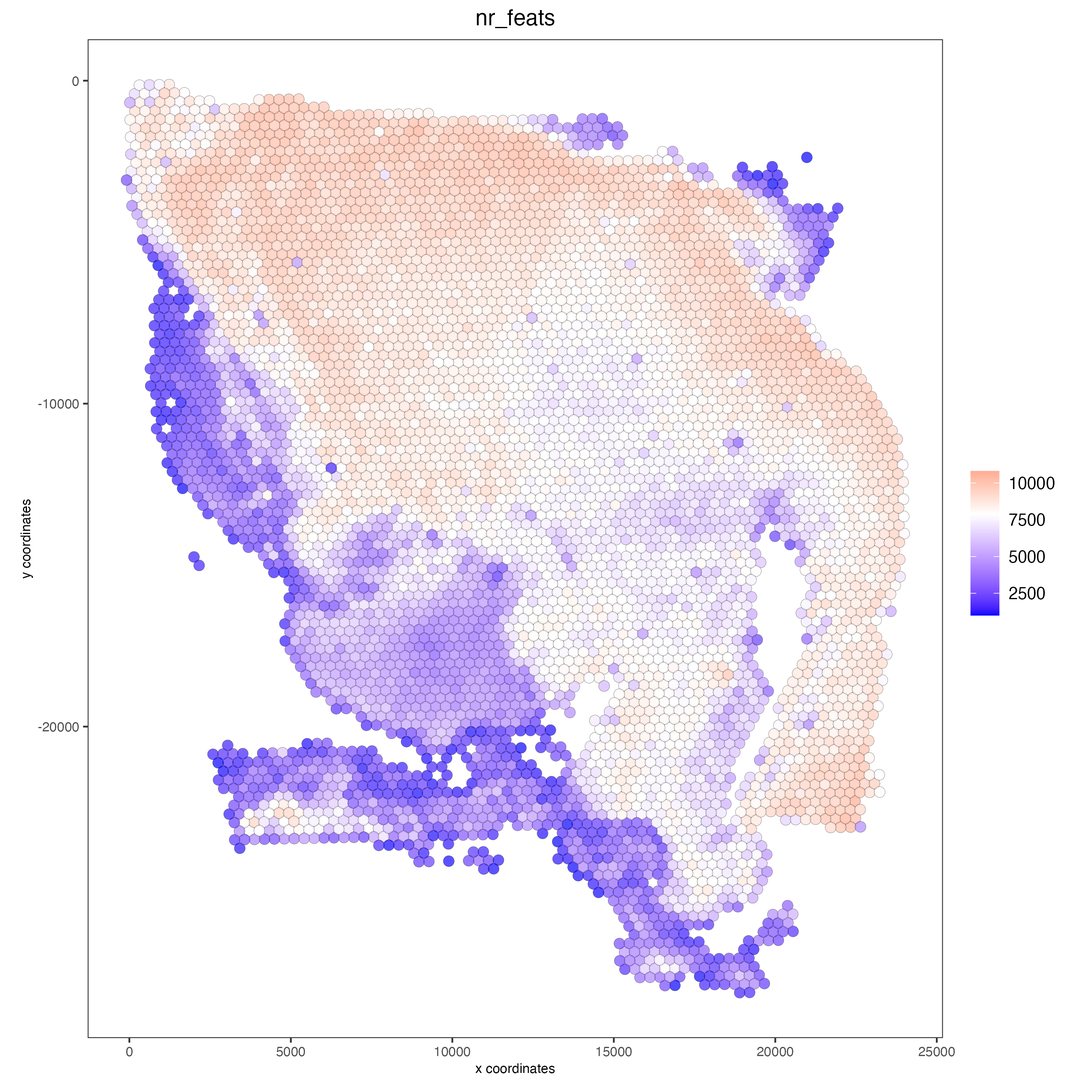
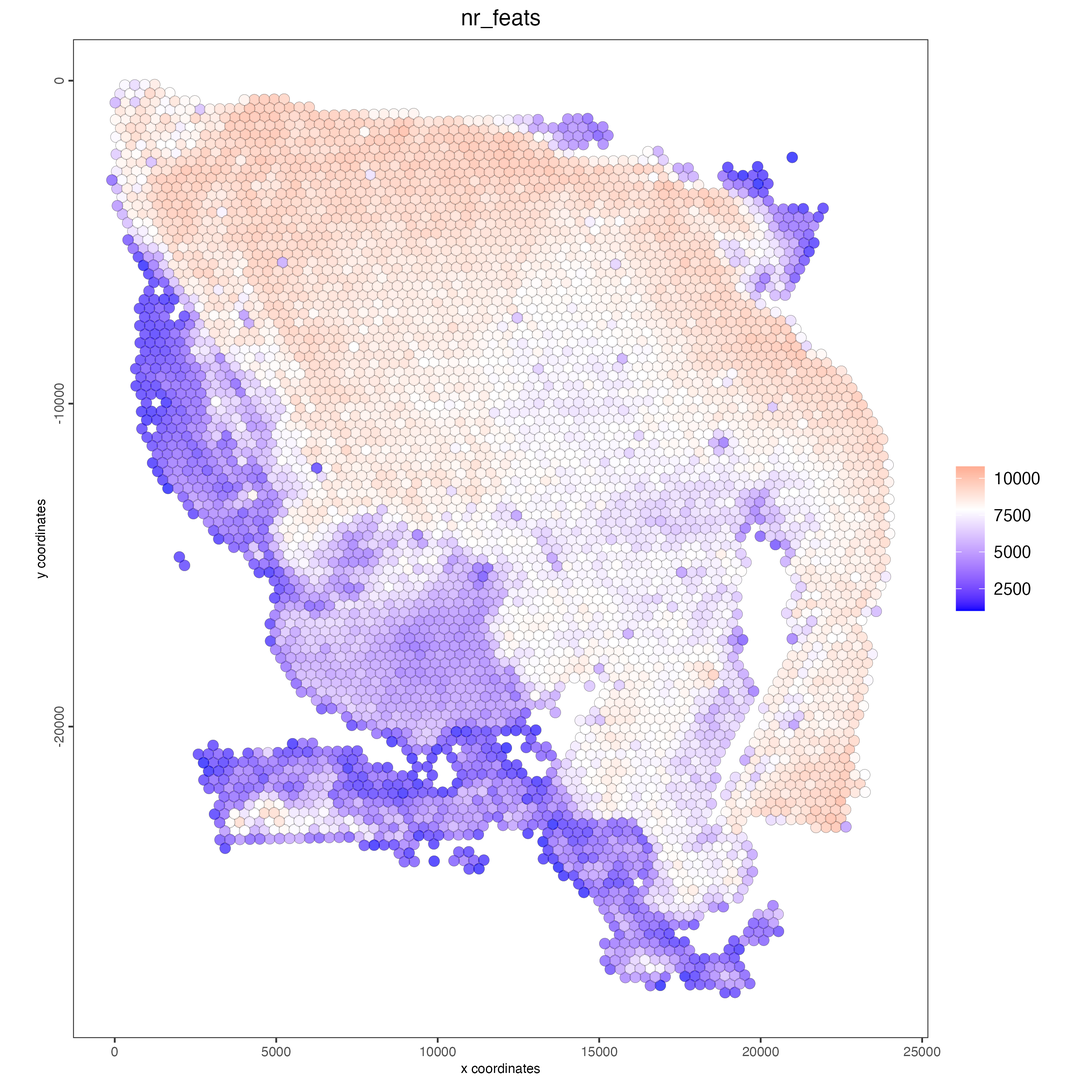
Deploying to gh-pages from @ drieslab/Giotto_website@1088780006481d3b1cf598054b1b624ef5b925c8 🚀

diff --git a/articles/visium_cytassist_human_glioblastoma.html b/articles/visium_cytassist_human_glioblastoma.html
@@ -529,7 +529,7 @@
 <span><span class="co">## Visualize aligned tissue</span></span>
 <span><span class="fu"><a href="https://drieslab.github.io/GiottoVisuals/reference/spatPlot.html" class="external-link">spatPlot2D</a></span><span class="op">(</span>gobject <span class="op">=</span> <span class="va">visium</span>,</span>
 <span>           point_alpha <span class="op">=</span> <span class="fl">0.7</span><span class="op">)</span></span></code></pre></div>
-<p><img src="images/visium_cytassist_human_glioblastoma/0-spatPlot2D.png"></p>
+<p><img src="images/visium_cytassist_human_glioblastoma/0-spatPlot2D.png" width="60%"></p>
 <div class="sourceCode" id="cb6"><pre class="downlit sourceCode r">
 <code class="sourceCode R"><span><span class="co"># Filtering, normalization, and statistics</span></span>
 <span></span>
@@ -552,7 +552,7 @@
 <span>           point_alpha <span class="op">=</span> <span class="fl">0.7</span>,</span>
 <span>           cell_color <span class="op">=</span> <span class="st">"nr_feats"</span>,</span>
 <span>           color_as_factor <span class="op">=</span> <span class="cn">FALSE</span><span class="op">)</span></span></code></pre></div>
-<p><img src="images/visium_cytassist_human_glioblastoma/1-spatPlot2D.png"></p>
+<p><img src="images/visium_cytassist_human_glioblastoma/1-spatPlot2D.png" width="60%"></p>
 <div class="sourceCode" id="cb7"><pre class="downlit sourceCode r">
 <code class="sourceCode R"><span><span class="co">## Protein feature </span></span>
 <span><span class="va">visium</span> <span class="op">&lt;-</span> <span class="fu"><a href="../reference/filterGiotto.html">filterGiotto</a></span><span class="op">(</span>gobject <span class="op">=</span> <span class="va">visium</span>, </span>
@@ -581,7 +581,7 @@
 <span>           point_alpha <span class="op">=</span> <span class="fl">0.7</span>, </span>
 <span>           cell_color <span class="op">=</span> <span class="st">"nr_feats"</span>, </span>
 <span>           color_as_factor <span class="op">=</span> <span class="cn">FALSE</span><span class="op">)</span></span></code></pre></div>
-<p><img src="images/visium_cytassist_human_glioblastoma/2-spatPlot2D.png"></p>
+<p><img src="images/visium_cytassist_human_glioblastoma/2-spatPlot2D.png" width="60%"></p>
 </div>
 <div class="section level2" number="5">
 <h2 number="5" id="dimension-reduction">
@@ -590,7 +590,6 @@
 <div class="sourceCode" id="cb8"><pre class="downlit sourceCode r">
 <code class="sourceCode R"><span><span class="co"># Identify highly variable features (HVF)</span></span>
 <span><span class="va">visium</span> <span class="op">&lt;-</span> <span class="fu"><a href="../reference/calculateHVF.html">calculateHVF</a></span><span class="op">(</span>gobject <span class="op">=</span> <span class="va">visium</span><span class="op">)</span></span></code></pre></div>
-<p><img src="images/visium_cytassist_human_glioblastoma/3-HVFplot.png"></p>
 <div class="sourceCode" id="cb9"><pre class="downlit sourceCode r">
 <code class="sourceCode R"><span><span class="co"># PCA</span></span>
 <span></span>
@@ -598,11 +597,11 @@
 <span><span class="va">visium</span> <span class="op">&lt;-</span> <span class="fu"><a href="../reference/runPCA.html">runPCA</a></span><span class="op">(</span>gobject <span class="op">=</span> <span class="va">visium</span><span class="op">)</span></span>
 <span></span>
 <span><span class="fu"><a href="../reference/screePlot.html">screePlot</a></span><span class="op">(</span><span class="va">visium</span>, ncp <span class="op">=</span> <span class="fl">30</span><span class="op">)</span></span></code></pre></div>
-<p><img src="images/visium_cytassist_human_glioblastoma/4-screePlot.png"></p>
+<p><img src="images/visium_cytassist_human_glioblastoma/3-screePlot.png" width="60%"></p>
 <div class="sourceCode" id="cb10"><pre class="downlit sourceCode r">
 <code class="sourceCode R"><span><span class="co">### Visualize RNA PCA</span></span>
 <span><span class="fu"><a href="https://drieslab.github.io/GiottoVisuals/reference/plotPCA.html" class="external-link">plotPCA</a></span><span class="op">(</span>gobject <span class="op">=</span> <span class="va">visium</span><span class="op">)</span></span></code></pre></div>
-<p><img src="images/visium_cytassist_human_glioblastoma/5-PCA.png"></p>
+<p><img src="images/visium_cytassist_human_glioblastoma/4-PCA.png" width="60%"></p>
 <div class="sourceCode" id="cb11"><pre class="downlit sourceCode r">
 <code class="sourceCode R"><span><span class="co">## Protein</span></span>
 <span><span class="va">visium</span> <span class="op">&lt;-</span> <span class="fu"><a href="../reference/runPCA.html">runPCA</a></span><span class="op">(</span>gobject <span class="op">=</span> <span class="va">visium</span>,</span>
@@ -613,13 +612,13 @@
 <span>          spat_unit <span class="op">=</span> <span class="st">"cell"</span>,</span>
 <span>          feat_type <span class="op">=</span> <span class="st">"protein"</span>,</span>
 <span>          ncp <span class="op">=</span> <span class="fl">30</span><span class="op">)</span></span></code></pre></div>
-<p><img src="images/visium_cytassist_human_glioblastoma/6-screePlot.png"></p>
+<p><img src="images/visium_cytassist_human_glioblastoma/5-screePlot.png" width="60%"></p>
 <div class="sourceCode" id="cb12"><pre class="downlit sourceCode r">
 <code class="sourceCode R"><span><span class="co">### Visualize Protein PCA</span></span>
 <span><span class="fu"><a href="https://drieslab.github.io/GiottoVisuals/reference/plotPCA.html" class="external-link">plotPCA</a></span><span class="op">(</span>gobject <span class="op">=</span> <span class="va">visium</span>,</span>
 <span>        spat_unit <span class="op">=</span> <span class="st">"cell"</span>,</span>
 <span>        feat_type <span class="op">=</span> <span class="st">"protein"</span><span class="op">)</span></span></code></pre></div>
-<p><img src="images/visium_cytassist_human_glioblastoma/7-PCA.png"></p>
+<p><img src="images/visium_cytassist_human_glioblastoma/6-PCA.png" width="60%"></p>
 </div>
 <div class="section level2" number="6">
 <h2 number="6" id="clustering">
@@ -665,7 +664,7 @@
 <span>         cell_color <span class="op">=</span> <span class="st">"leiden_clus"</span>,</span>
 <span>         show_NN_network <span class="op">=</span> <span class="cn">TRUE</span>,</span>
 <span>         point_size <span class="op">=</span> <span class="fl">2</span><span class="op">)</span></span></code></pre></div>
-<p><img src="images/visium_cytassist_human_glioblastoma/8-UMAP.png"></p>
+<p><img src="images/visium_cytassist_human_glioblastoma/7-UMAP.png" width="60%"></p>
 <div class="sourceCode" id="cb14"><pre class="downlit sourceCode r">
 <code class="sourceCode R"><span><span class="co">## Protein feature </span></span>
 <span><span class="va">visium</span> <span class="op">&lt;-</span> <span class="fu"><a href="../reference/runUMAP.html">runUMAP</a></span><span class="op">(</span><span class="va">visium</span>,</span>
@@ -679,7 +678,7 @@
 <span>         cell_color <span class="op">=</span> <span class="st">"leiden_clus"</span>, </span>
 <span>         show_NN_network <span class="op">=</span> <span class="cn">TRUE</span>, </span>
 <span>         point_size <span class="op">=</span> <span class="fl">2</span><span class="op">)</span></span></code></pre></div>
-<p><img src="images/visium_cytassist_human_glioblastoma/9-UMAP.png"></p>
+<p><img src="images/visium_cytassist_human_glioblastoma/8-UMAP.png" width="60%"></p>
 <div class="sourceCode" id="cb15"><pre class="downlit sourceCode r">
 <code class="sourceCode R"><span><span class="co"># Visualize spatial plot</span></span>
 <span></span>
@@ -688,7 +687,7 @@
 <span>           show_image <span class="op">=</span> <span class="cn">TRUE</span>,</span>
 <span>           cell_color <span class="op">=</span> <span class="st">"leiden_clus"</span>,</span>
 <span>           point_size <span class="op">=</span> <span class="fl">2</span><span class="op">)</span></span></code></pre></div>
-<p><img src="images/visium_cytassist_human_glioblastoma/10-spatPlot2D.png"></p>
+<p><img src="images/visium_cytassist_human_glioblastoma/9-spatPlot2D.png" width="60%"></p>
 <div class="sourceCode" id="cb16"><pre class="downlit sourceCode r">
 <code class="sourceCode R"><span><span class="co">## Protein feature</span></span>
 <span><span class="fu"><a href="https://drieslab.github.io/GiottoVisuals/reference/spatPlot.html" class="external-link">spatPlot2D</a></span><span class="op">(</span>gobject <span class="op">=</span> <span class="va">visium</span>,</span>
@@ -697,7 +696,7 @@
 <span>           show_image <span class="op">=</span> <span class="cn">TRUE</span>,</span>
 <span>           cell_color <span class="op">=</span> <span class="st">"leiden_clus"</span>,</span>
 <span>           point_size <span class="op">=</span> <span class="fl">2</span><span class="op">)</span></span></code></pre></div>
-<p><img src="images/visium_cytassist_human_glioblastoma/11-spatPlot2D.png"></p>
+<p><img src="images/visium_cytassist_human_glioblastoma/10-spatPlot2D.png" width="60%"></p>
 </div>
 <div class="section level2" number="7">
 <h2 number="7" id="multi-omics-integration">
@@ -720,7 +719,6 @@
 <span>                               type <span class="op">=</span> <span class="st">"kNN"</span>,</span>
 <span>                               dimensions_to_use <span class="op">=</span> <span class="fl">1</span><span class="op">:</span><span class="fl">10</span>,</span>
 <span>                               k <span class="op">=</span> <span class="fl">20</span><span class="op">)</span></span>
-<span></span>
 <span></span>
 <span><span class="co"># Run WNN</span></span>
 <span><span class="va">visium</span> <span class="op">&lt;-</span> <span class="fu"><a href="../reference/runWNN.html">runWNN</a></span><span class="op">(</span><span class="va">visium</span>,</span>
@@ -763,7 +761,7 @@
 <span>         title <span class="op">=</span> <span class="st">"Integrated UMAP using Integrated Leiden clusters"</span>,</span>
 <span>         axis_title <span class="op">=</span> <span class="fl">12</span>,</span>
 <span>         axis_text <span class="op">=</span> <span class="fl">10</span> <span class="op">)</span></span></code></pre></div>
-<p><img src="images/visium_cytassist_human_glioblastoma/12-UMAP.png"></p>
+<p><img src="images/visium_cytassist_human_glioblastoma/11-UMAP.png" width="60%"></p>
 <div class="sourceCode" id="cb18"><pre class="downlit sourceCode r">
 <code class="sourceCode R"><span><span class="co"># Visualize spatial plot with integrated clusters</span></span>
 <span><span class="fu"><a href="https://drieslab.github.io/GiottoVisuals/reference/spatPlot.html" class="external-link">spatPlot2D</a></span><span class="op">(</span><span class="va">visium</span>,</span>
@@ -773,39 +771,73 @@
 <span>           point_size <span class="op">=</span> <span class="fl">2</span>,</span>
 <span>           show_image <span class="op">=</span> <span class="cn">FALSE</span>,</span>
 <span>           title <span class="op">=</span> <span class="st">"Integrated Leiden clustering"</span><span class="op">)</span></span></code></pre></div>
-<p><img src="images/visium_cytassist_human_glioblastoma/13-spatPlot2D.png"></p>
+<p><img src="images/visium_cytassist_human_glioblastoma/12-spatPlot2D.png" width="60%"></p>
 </div>
 <div class="section level2" number="8">
 <h2 number="8" id="session-info">
 <span class="header-section-number">8</span> Session Info<a class="anchor" aria-label="anchor" href="#session-info"></a>
 </h2>
-<div class="sourceCode" id="cb19"><pre class="sourceCode r"><code class="sourceCode r"><span id="cb19-1"><a href="#cb19-1" aria-hidden="true"></a><span class="kw">sessionInfo</span>()</span>
-<span id="cb19-2"><a href="#cb19-2" aria-hidden="true"></a></span>
-<span id="cb19-3"><a href="#cb19-3" aria-hidden="true"></a>R version <span class="dv">4</span>.<span class="fl">3.2</span> (<span class="dv">2023-10-31</span>)</span>
-<span id="cb19-4"><a href="#cb19-4" aria-hidden="true"></a>Platform<span class="op">:</span><span class="st"> </span>aarch64<span class="op">-</span>apple<span class="op">-</span><span class="kw">darwin20</span> (<span class="dv">64</span><span class="op">-</span>bit)</span>
-<span id="cb19-5"><a href="#cb19-5" aria-hidden="true"></a>Running under<span class="op">:</span><span class="st"> </span>macOS Sonoma <span class="dv">14</span>.<span class="fl">1.2</span></span>
-<span id="cb19-6"><a href="#cb19-6" aria-hidden="true"></a></span>
-<span id="cb19-7"><a href="#cb19-7" aria-hidden="true"></a>Matrix products<span class="op">:</span><span class="st"> </span>default</span>
-<span id="cb19-8"><a href="#cb19-8" aria-hidden="true"></a>BLAS<span class="op">:</span><span class="st">   </span><span class="er">/</span>System<span class="op">/</span>Library<span class="op">/</span>Frameworks<span class="op">/</span>Accelerate.framework<span class="op">/</span>Versions<span class="op">/</span>A<span class="op">/</span>Frameworks<span class="op">/</span>vecLib.framework<span class="op">/</span>Versions<span class="op">/</span>A<span class="op">/</span>libBLAS.dylib </span>
-<span id="cb19-9"><a href="#cb19-9" aria-hidden="true"></a>LAPACK<span class="op">:</span><span class="st"> </span><span class="er">/</span>Library<span class="op">/</span>Frameworks<span class="op">/</span>R.framework<span class="op">/</span>Versions<span class="op">/</span><span class="fl">4.3</span><span class="op">-</span>arm64<span class="op">/</span>Resources<span class="op">/</span>lib<span class="op">/</span>libRlapack.dylib;  LAPACK version <span class="dv">3</span>.<span class="fl">11.0</span></span>
-<span id="cb19-10"><a href="#cb19-10" aria-hidden="true"></a></span>
-<span id="cb19-11"><a href="#cb19-11" aria-hidden="true"></a>locale<span class="op">:</span></span>
-<span id="cb19-12"><a href="#cb19-12" aria-hidden="true"></a>[<span class="dv">1</span>] en_US.UTF<span class="dv">-8</span><span class="op">/</span>en_US.UTF<span class="dv">-8</span><span class="op">/</span>en_US.UTF<span class="dv">-8</span><span class="op">/</span>C<span class="op">/</span>en_US.UTF<span class="dv">-8</span><span class="op">/</span>en_US.UTF<span class="dv">-8</span></span>
-<span id="cb19-13"><a href="#cb19-13" aria-hidden="true"></a></span>
-<span id="cb19-14"><a href="#cb19-14" aria-hidden="true"></a>time zone<span class="op">:</span><span class="st"> </span>America<span class="op">/</span>New_York</span>
-<span id="cb19-15"><a href="#cb19-15" aria-hidden="true"></a>tzcode source<span class="op">:</span><span class="st"> </span>internal</span>
-<span id="cb19-16"><a href="#cb19-16" aria-hidden="true"></a></span>
-<span id="cb19-17"><a href="#cb19-17" aria-hidden="true"></a>attached base packages<span class="op">:</span></span>
-<span id="cb19-18"><a href="#cb19-18" aria-hidden="true"></a>[<span class="dv">1</span>] stats     graphics  grDevices utils     datasets  methods   base     </span>
-<span id="cb19-19"><a href="#cb19-19" aria-hidden="true"></a></span>
-<span id="cb19-20"><a href="#cb19-20" aria-hidden="true"></a>loaded via a <span class="kw">namespace</span> (and not attached)<span class="op">:</span></span>
-<span id="cb19-21"><a href="#cb19-21" aria-hidden="true"></a><span class="st"> </span>[<span class="dv">1</span>] vctrs_<span class="dv">0</span>.<span class="fl">6.5</span>       cli_<span class="dv">3</span>.<span class="fl">6.2</span>         knitr_<span class="fl">1.45</span>        rlang_<span class="dv">1</span>.<span class="fl">1.3</span>       xfun_<span class="fl">0.41</span>         stringi_<span class="dv">1</span>.<span class="fl">8.3</span>    </span>
-<span id="cb19-22"><a href="#cb19-22" aria-hidden="true"></a> [<span class="dv">7</span>] purrr_<span class="dv">1</span>.<span class="fl">0.2</span>       pkgload_<span class="dv">1</span>.<span class="fl">3.4</span>     promises_<span class="dv">1</span>.<span class="fl">2.1</span>    shiny_<span class="dv">1</span>.<span class="fl">8.0</span>       xtable_<span class="fl">1.8</span><span class="dv">-4</span>      glue_<span class="dv">1</span>.<span class="fl">7.0</span>       </span>
-<span id="cb19-23"><a href="#cb19-23" aria-hidden="true"></a>[<span class="dv">13</span>] htmltools_<span class="dv">0</span>.<span class="fl">5.7</span>   httpuv_<span class="dv">1</span>.<span class="fl">6.13</span>     pkgbuild_<span class="dv">1</span>.<span class="fl">4.3</span>    rmarkdown_<span class="fl">2.25</span>    evaluate_<span class="fl">0.23</span>     ellipsis_<span class="dv">0</span>.<span class="fl">3.2</span>   </span>
-<span id="cb19-24"><a href="#cb19-24" aria-hidden="true"></a>[<span class="dv">19</span>] fastmap_<span class="dv">1</span>.<span class="fl">1.1</span>     yaml_<span class="dv">2</span>.<span class="fl">3.8</span>        lifecycle_<span class="dv">1</span>.<span class="fl">0.4</span>   memoise_<span class="dv">2</span>.<span class="fl">0.1</span>     stringr_<span class="dv">1</span>.<span class="fl">5.1</span>     compiler_<span class="dv">4</span>.<span class="fl">3.2</span>   </span>
-<span id="cb19-25"><a href="#cb19-25" aria-hidden="true"></a>[<span class="dv">25</span>] miniUI_<span class="dv">0</span>.<span class="dv">1</span>.<span class="fl">1.1</span>    sessioninfo_<span class="dv">1</span>.<span class="fl">2.2</span> fs_<span class="dv">1</span>.<span class="fl">6.3</span>          htmlwidgets_<span class="dv">1</span>.<span class="fl">6.4</span> Rcpp_<span class="dv">1</span>.<span class="fl">0.12</span>       urlchecker_<span class="dv">1</span>.<span class="fl">0.1</span> </span>
-<span id="cb19-26"><a href="#cb19-26" aria-hidden="true"></a>[<span class="dv">31</span>] rstudioapi_<span class="dv">0</span>.<span class="fl">15.0</span> later_<span class="dv">1</span>.<span class="fl">3.2</span>       digest_<span class="dv">0</span>.<span class="fl">6.34</span>     R6_<span class="dv">2</span>.<span class="fl">5.1</span>          usethis_<span class="dv">2</span>.<span class="fl">2.2</span>     magrittr_<span class="dv">2</span>.<span class="fl">0.3</span>   </span>
-<span id="cb19-27"><a href="#cb19-27" aria-hidden="true"></a>[<span class="dv">37</span>] tools_<span class="dv">4</span>.<span class="fl">3.2</span>       mime_<span class="fl">0.12</span>         devtools_<span class="dv">2</span>.<span class="fl">4.5</span>    profvis_<span class="dv">0</span>.<span class="fl">3.8</span>     remotes_<span class="dv">2</span>.<span class="dv">4</span>.<span class="fl">2.1</span>   cachem_<span class="dv">1</span>.<span class="fl">0.8</span>    </span></code></pre></div>
+<div class="sourceCode" id="cb19"><pre class="downlit sourceCode r">
+<code class="sourceCode R"><span><span class="fu"><a href="https://rdrr.io/r/utils/sessionInfo.html" class="external-link">sessionInfo</a></span><span class="op">(</span><span class="op">)</span></span></code></pre></div>
+<div class="sourceCode" id="cb20"><pre class="sourceCode r"><code class="sourceCode r"><span id="cb20-1"><a href="#cb20-1" aria-hidden="true"></a>R version <span class="dv">4</span>.<span class="fl">4.0</span> (<span class="dv">2024-04-24</span>)</span>
+<span id="cb20-2"><a href="#cb20-2" aria-hidden="true"></a>Platform<span class="op">:</span><span class="st"> </span>x86_<span class="dv">64</span><span class="op">-</span>apple<span class="op">-</span>darwin20</span>
+<span id="cb20-3"><a href="#cb20-3" aria-hidden="true"></a>Running under<span class="op">:</span><span class="st"> </span>macOS Sonoma <span class="fl">14.5</span></span>
+<span id="cb20-4"><a href="#cb20-4" aria-hidden="true"></a></span>
+<span id="cb20-5"><a href="#cb20-5" aria-hidden="true"></a>Matrix products<span class="op">:</span><span class="st"> </span>default</span>
+<span id="cb20-6"><a href="#cb20-6" aria-hidden="true"></a>BLAS<span class="op">:</span><span class="st">   </span><span class="er">/</span>System<span class="op">/</span>Library<span class="op">/</span>Frameworks<span class="op">/</span>Accelerate.framework<span class="op">/</span>Versions<span class="op">/</span>A<span class="op">/</span>Frameworks<span class="op">/</span>vecLib.framework<span class="op">/</span>Versions<span class="op">/</span>A<span class="op">/</span>libBLAS.dylib </span>
+<span id="cb20-7"><a href="#cb20-7" aria-hidden="true"></a>LAPACK<span class="op">:</span><span class="st"> </span><span class="er">/</span>Library<span class="op">/</span>Frameworks<span class="op">/</span>R.framework<span class="op">/</span>Versions<span class="op">/</span><span class="fl">4.4</span><span class="op">-</span>x86_<span class="dv">64</span><span class="op">/</span>Resources<span class="op">/</span>lib<span class="op">/</span>libRlapack.dylib;  LAPACK version <span class="dv">3</span>.<span class="fl">12.0</span></span>
+<span id="cb20-8"><a href="#cb20-8" aria-hidden="true"></a></span>
+<span id="cb20-9"><a href="#cb20-9" aria-hidden="true"></a>locale<span class="op">:</span></span>
+<span id="cb20-10"><a href="#cb20-10" aria-hidden="true"></a>[<span class="dv">1</span>] en_US.UTF<span class="dv">-8</span><span class="op">/</span>en_US.UTF<span class="dv">-8</span><span class="op">/</span>en_US.UTF<span class="dv">-8</span><span class="op">/</span>C<span class="op">/</span>en_US.UTF<span class="dv">-8</span><span class="op">/</span>en_US.UTF<span class="dv">-8</span></span>
+<span id="cb20-11"><a href="#cb20-11" aria-hidden="true"></a></span>
+<span id="cb20-12"><a href="#cb20-12" aria-hidden="true"></a>time zone<span class="op">:</span><span class="st"> </span>America<span class="op">/</span>New_York</span>
+<span id="cb20-13"><a href="#cb20-13" aria-hidden="true"></a>tzcode source<span class="op">:</span><span class="st"> </span>internal</span>
+<span id="cb20-14"><a href="#cb20-14" aria-hidden="true"></a></span>
+<span id="cb20-15"><a href="#cb20-15" aria-hidden="true"></a>attached base packages<span class="op">:</span></span>
+<span id="cb20-16"><a href="#cb20-16" aria-hidden="true"></a>[<span class="dv">1</span>] stats     graphics  grDevices utils     datasets  methods   base     </span>
+<span id="cb20-17"><a href="#cb20-17" aria-hidden="true"></a></span>
+<span id="cb20-18"><a href="#cb20-18" aria-hidden="true"></a>other attached packages<span class="op">:</span></span>
+<span id="cb20-19"><a href="#cb20-19" aria-hidden="true"></a>[<span class="dv">1</span>] Giotto_<span class="dv">4</span>.<span class="fl">1.0</span>      GiottoClass_<span class="dv">0</span>.<span class="fl">3.4</span></span>
+<span id="cb20-20"><a href="#cb20-20" aria-hidden="true"></a></span>
+<span id="cb20-21"><a href="#cb20-21" aria-hidden="true"></a>loaded via a <span class="kw">namespace</span> (and not attached)<span class="op">:</span></span>
+<span id="cb20-22"><a href="#cb20-22" aria-hidden="true"></a><span class="st">  </span>[<span class="dv">1</span>] colorRamp2_<span class="dv">0</span>.<span class="fl">1.0</span>            deldir_<span class="fl">2.0</span><span class="dv">-4</span>                rlang_<span class="dv">1</span>.<span class="fl">1.4</span>                </span>
+<span id="cb20-23"><a href="#cb20-23" aria-hidden="true"></a>  [<span class="dv">4</span>] magrittr_<span class="dv">2</span>.<span class="fl">0.3</span>              RcppAnnoy_<span class="dv">0</span>.<span class="fl">0.22</span>            GiottoUtils_<span class="dv">0</span>.<span class="fl">1.10</span>         </span>
+<span id="cb20-24"><a href="#cb20-24" aria-hidden="true"></a>  [<span class="dv">7</span>] matrixStats_<span class="dv">1</span>.<span class="fl">3.0</span>           compiler_<span class="dv">4</span>.<span class="fl">4.0</span>              png_<span class="fl">0.1</span><span class="dv">-8</span>                  </span>
+<span id="cb20-25"><a href="#cb20-25" aria-hidden="true"></a> [<span class="dv">10</span>] systemfonts_<span class="dv">1</span>.<span class="fl">1.0</span>           vctrs_<span class="dv">0</span>.<span class="fl">6.5</span>                 reshape2_<span class="dv">1</span>.<span class="fl">4.4</span>             </span>
+<span id="cb20-26"><a href="#cb20-26" aria-hidden="true"></a> [<span class="dv">13</span>] stringr_<span class="dv">1</span>.<span class="fl">5.1</span>               pkgconfig_<span class="dv">2</span>.<span class="fl">0.3</span>             SpatialExperiment_<span class="dv">1</span>.<span class="fl">14.0</span>   </span>
+<span id="cb20-27"><a href="#cb20-27" aria-hidden="true"></a> [<span class="dv">16</span>] crayon_<span class="dv">1</span>.<span class="fl">5.3</span>                fastmap_<span class="dv">1</span>.<span class="fl">2.0</span>               backports_<span class="dv">1</span>.<span class="fl">5.0</span>            </span>
+<span id="cb20-28"><a href="#cb20-28" aria-hidden="true"></a> [<span class="dv">19</span>] magick_<span class="dv">2</span>.<span class="fl">8.4</span>                XVector_<span class="dv">0</span>.<span class="fl">44.0</span>              labeling_<span class="dv">0</span>.<span class="fl">4.3</span>             </span>
+<span id="cb20-29"><a href="#cb20-29" aria-hidden="true"></a> [<span class="dv">22</span>] utf8_<span class="dv">1</span>.<span class="fl">2.4</span>                  rmarkdown_<span class="fl">2.27</span>              UCSC.utils_<span class="dv">1</span>.<span class="fl">0.0</span>           </span>
+<span id="cb20-30"><a href="#cb20-30" aria-hidden="true"></a> [<span class="dv">25</span>] ragg_<span class="dv">1</span>.<span class="fl">3.2</span>                  purrr_<span class="dv">1</span>.<span class="fl">0.2</span>                 xfun_<span class="fl">0.46</span>                  </span>
+<span id="cb20-31"><a href="#cb20-31" aria-hidden="true"></a> [<span class="dv">28</span>] beachmat_<span class="dv">2</span>.<span class="fl">20.0</span>             zlibbioc_<span class="dv">1</span>.<span class="fl">50.0</span>             GenomeInfoDb_<span class="dv">1</span>.<span class="fl">40.1</span>        </span>
+<span id="cb20-32"><a href="#cb20-32" aria-hidden="true"></a> [<span class="dv">31</span>] jsonlite_<span class="dv">1</span>.<span class="fl">8.8</span>              DelayedArray_<span class="dv">0</span>.<span class="fl">30.1</span>         BiocParallel_<span class="dv">1</span>.<span class="fl">38.0</span>        </span>
+<span id="cb20-33"><a href="#cb20-33" aria-hidden="true"></a> [<span class="dv">34</span>] terra_<span class="fl">1.7</span><span class="dv">-78</span>                irlba_<span class="dv">2</span>.<span class="dv">3</span>.<span class="fl">5.1</span>               parallel_<span class="dv">4</span>.<span class="fl">4.0</span>             </span>
+<span id="cb20-34"><a href="#cb20-34" aria-hidden="true"></a> [<span class="dv">37</span>] R6_<span class="dv">2</span>.<span class="fl">5.1</span>                    stringi_<span class="dv">1</span>.<span class="fl">8.4</span>               RColorBrewer_<span class="fl">1.1</span><span class="dv">-3</span>         </span>
+<span id="cb20-35"><a href="#cb20-35" aria-hidden="true"></a> [<span class="dv">40</span>] reticulate_<span class="dv">1</span>.<span class="fl">38.0</span>           parallelly_<span class="dv">1</span>.<span class="fl">38.0</span>           GenomicRanges_<span class="dv">1</span>.<span class="fl">56.1</span>       </span>
+<span id="cb20-36"><a href="#cb20-36" aria-hidden="true"></a> [<span class="dv">43</span>] scattermore_<span class="fl">1.2</span>             Rcpp_<span class="dv">1</span>.<span class="fl">0.13</span>                 SummarizedExperiment_<span class="dv">1</span>.<span class="fl">34.0</span></span>
+<span id="cb20-37"><a href="#cb20-37" aria-hidden="true"></a> [<span class="dv">46</span>] knitr_<span class="fl">1.48</span>                  future.apply_<span class="dv">1</span>.<span class="fl">11.2</span>         R.utils_<span class="dv">2</span>.<span class="fl">12.3</span>             </span>
+<span id="cb20-38"><a href="#cb20-38" aria-hidden="true"></a> [<span class="dv">49</span>] IRanges_<span class="dv">2</span>.<span class="fl">38.1</span>              Matrix_<span class="fl">1.7</span><span class="dv">-0</span>                igraph_<span class="dv">2</span>.<span class="fl">0.3</span>               </span>
+<span id="cb20-39"><a href="#cb20-39" aria-hidden="true"></a> [<span class="dv">52</span>] tidyselect_<span class="dv">1</span>.<span class="fl">2.1</span>            rstudioapi_<span class="dv">0</span>.<span class="fl">16.0</span>           abind_<span class="fl">1.4</span><span class="dv">-5</span>                </span>
+<span id="cb20-40"><a href="#cb20-40" aria-hidden="true"></a> [<span class="dv">55</span>] yaml_<span class="dv">2</span>.<span class="fl">3.10</span>                 codetools_<span class="fl">0.2</span><span class="dv">-20</span>            listenv_<span class="dv">0</span>.<span class="fl">9.1</span>              </span>
+<span id="cb20-41"><a href="#cb20-41" aria-hidden="true"></a> [<span class="dv">58</span>] lattice_<span class="fl">0.22</span><span class="dv">-6</span>              tibble_<span class="dv">3</span>.<span class="fl">2.1</span>                plyr_<span class="dv">1</span>.<span class="fl">8.9</span>                 </span>
+<span id="cb20-42"><a href="#cb20-42" aria-hidden="true"></a> [<span class="dv">61</span>] Biobase_<span class="dv">2</span>.<span class="fl">64.0</span>              withr_<span class="dv">3</span>.<span class="fl">0.0</span>                 evaluate_<span class="dv">0</span>.<span class="fl">24.0</span>            </span>
+<span id="cb20-43"><a href="#cb20-43" aria-hidden="true"></a> [<span class="dv">64</span>] future_<span class="dv">1</span>.<span class="fl">34.0</span>               pillar_<span class="dv">1</span>.<span class="fl">9.0</span>                MatrixGenerics_<span class="dv">1</span>.<span class="fl">16.0</span>      </span>
+<span id="cb20-44"><a href="#cb20-44" aria-hidden="true"></a> [<span class="dv">67</span>] checkmate_<span class="dv">2</span>.<span class="fl">3.2</span>             stats4_<span class="dv">4</span>.<span class="fl">4.0</span>                plotly_<span class="dv">4</span>.<span class="fl">10.4</span>              </span>
+<span id="cb20-45"><a href="#cb20-45" aria-hidden="true"></a> [<span class="dv">70</span>] generics_<span class="dv">0</span>.<span class="fl">1.3</span>              dbscan_<span class="fl">1.2</span><span class="dv">-0</span>                sp_<span class="fl">2.1</span><span class="dv">-4</span>                   </span>
+<span id="cb20-46"><a href="#cb20-46" aria-hidden="true"></a> [<span class="dv">73</span>] S4Vectors_<span class="dv">0</span>.<span class="fl">42.1</span>            ggplot2_<span class="dv">3</span>.<span class="fl">5.1</span>               munsell_<span class="dv">0</span>.<span class="fl">5.1</span>              </span>
+<span id="cb20-47"><a href="#cb20-47" aria-hidden="true"></a> [<span class="dv">76</span>] scales_<span class="dv">1</span>.<span class="fl">3.0</span>                globals_<span class="dv">0</span>.<span class="fl">16.3</span>              gtools_<span class="dv">3</span>.<span class="fl">9.5</span>               </span>
+<span id="cb20-48"><a href="#cb20-48" aria-hidden="true"></a> [<span class="dv">79</span>] glue_<span class="dv">1</span>.<span class="fl">7.0</span>                  lazyeval_<span class="dv">0</span>.<span class="fl">2.2</span>              tools_<span class="dv">4</span>.<span class="fl">4.0</span>                </span>
+<span id="cb20-49"><a href="#cb20-49" aria-hidden="true"></a> [<span class="dv">82</span>] GiottoVisuals_<span class="dv">0</span>.<span class="fl">2.4</span>         data.table_<span class="dv">1</span>.<span class="fl">15.4</span>           ScaledMatrix_<span class="dv">1</span>.<span class="fl">12.0</span>        </span>
+<span id="cb20-50"><a href="#cb20-50" aria-hidden="true"></a> [<span class="dv">85</span>] cowplot_<span class="dv">1</span>.<span class="fl">1.3</span>               grid_<span class="dv">4</span>.<span class="fl">4.0</span>                  tidyr_<span class="dv">1</span>.<span class="fl">3.1</span>                </span>
+<span id="cb20-51"><a href="#cb20-51" aria-hidden="true"></a> [<span class="dv">88</span>] colorspace_<span class="fl">2.1</span><span class="dv">-1</span>            SingleCellExperiment_<span class="dv">1</span>.<span class="fl">26.0</span> GenomeInfoDbData_<span class="dv">1</span>.<span class="fl">2.12</span>    </span>
+<span id="cb20-52"><a href="#cb20-52" aria-hidden="true"></a> [<span class="dv">91</span>] BiocSingular_<span class="dv">1</span>.<span class="fl">20.0</span>         rsvd_<span class="dv">1</span>.<span class="fl">0.5</span>                  cli_<span class="dv">3</span>.<span class="fl">6.3</span>                  </span>
+<span id="cb20-53"><a href="#cb20-53" aria-hidden="true"></a> [<span class="dv">94</span>] textshaping_<span class="dv">0</span>.<span class="fl">4.0</span>           fansi_<span class="dv">1</span>.<span class="fl">0.6</span>                 S4Arrays_<span class="dv">1</span>.<span class="fl">4.1</span>             </span>
+<span id="cb20-54"><a href="#cb20-54" aria-hidden="true"></a> [<span class="dv">97</span>] viridisLite_<span class="dv">0</span>.<span class="fl">4.2</span>           dplyr_<span class="dv">1</span>.<span class="fl">1.4</span>                 uwot_<span class="dv">0</span>.<span class="fl">2.2</span>                 </span>
+<span id="cb20-55"><a href="#cb20-55" aria-hidden="true"></a>[<span class="dv">100</span>] gtable_<span class="dv">0</span>.<span class="fl">3.5</span>                R.methodsS3_<span class="dv">1</span>.<span class="fl">8.2</span>           digest_<span class="dv">0</span>.<span class="fl">6.36</span>              </span>
+<span id="cb20-56"><a href="#cb20-56" aria-hidden="true"></a>[<span class="dv">103</span>] BiocGenerics_<span class="dv">0</span>.<span class="fl">50.0</span>         SparseArray_<span class="dv">1</span>.<span class="fl">4.8</span>           ggrepel_<span class="dv">0</span>.<span class="fl">9.5</span>              </span>
+<span id="cb20-57"><a href="#cb20-57" aria-hidden="true"></a>[<span class="dv">106</span>] rjson_<span class="dv">0</span>.<span class="fl">2.21</span>                htmlwidgets_<span class="dv">1</span>.<span class="fl">6.4</span>           farver_<span class="dv">2</span>.<span class="fl">1.2</span>               </span>
+<span id="cb20-58"><a href="#cb20-58" aria-hidden="true"></a>[<span class="dv">109</span>] htmltools_<span class="dv">0</span>.<span class="dv">5</span>.<span class="fl">8.1</span>           R.oo_<span class="dv">1</span>.<span class="fl">26.0</span>                 lifecycle_<span class="dv">1</span>.<span class="fl">0.4</span>            </span>
+<span id="cb20-59"><a href="#cb20-59" aria-hidden="true"></a>[<span class="dv">112</span>] httr_<span class="dv">1</span>.<span class="fl">4.7</span> </span></code></pre></div>
 </div>
   </div>
 
